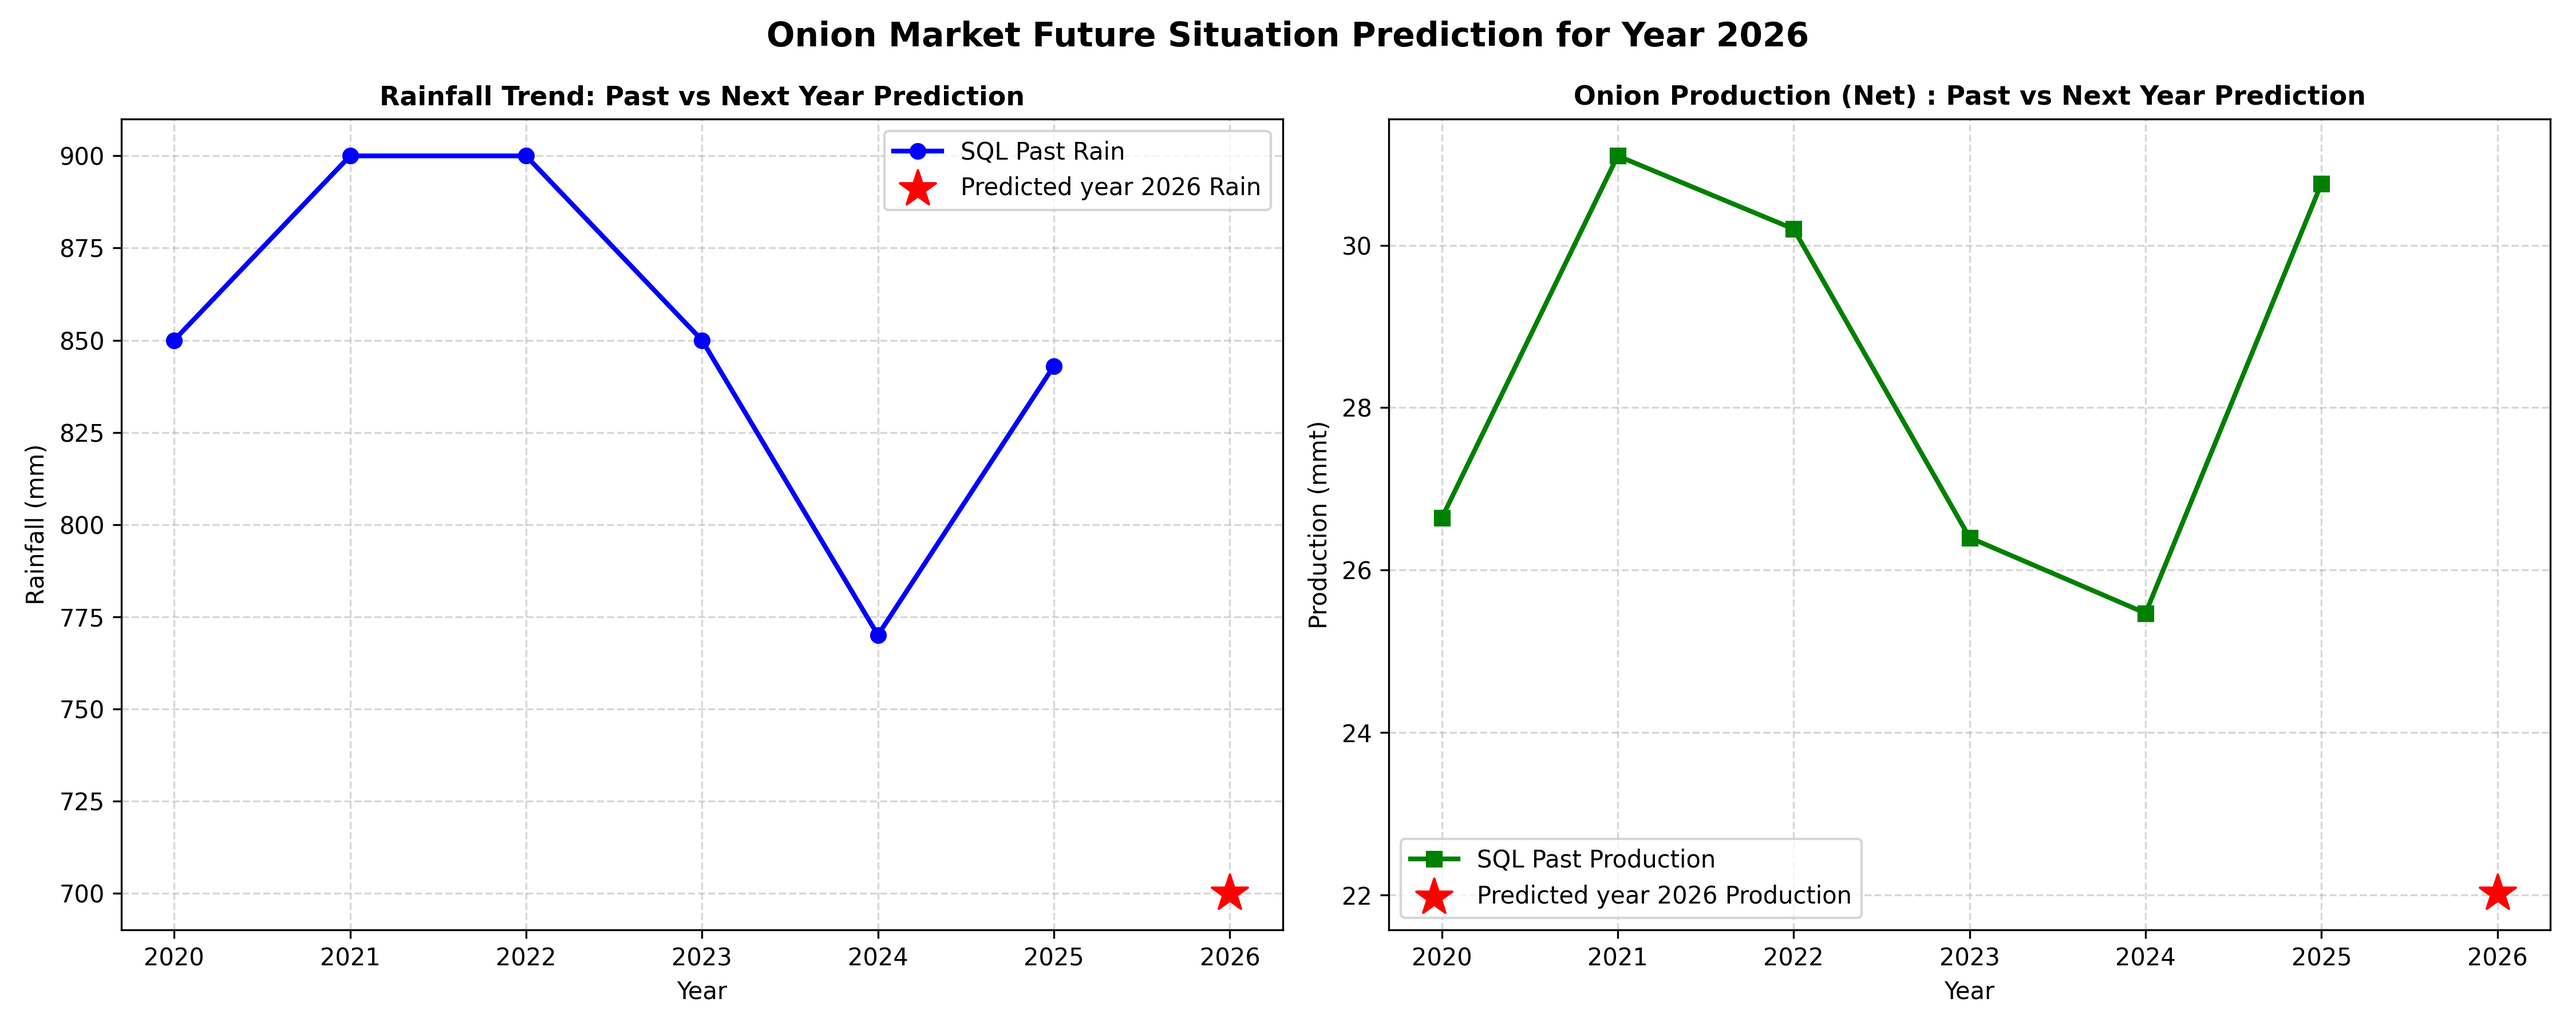
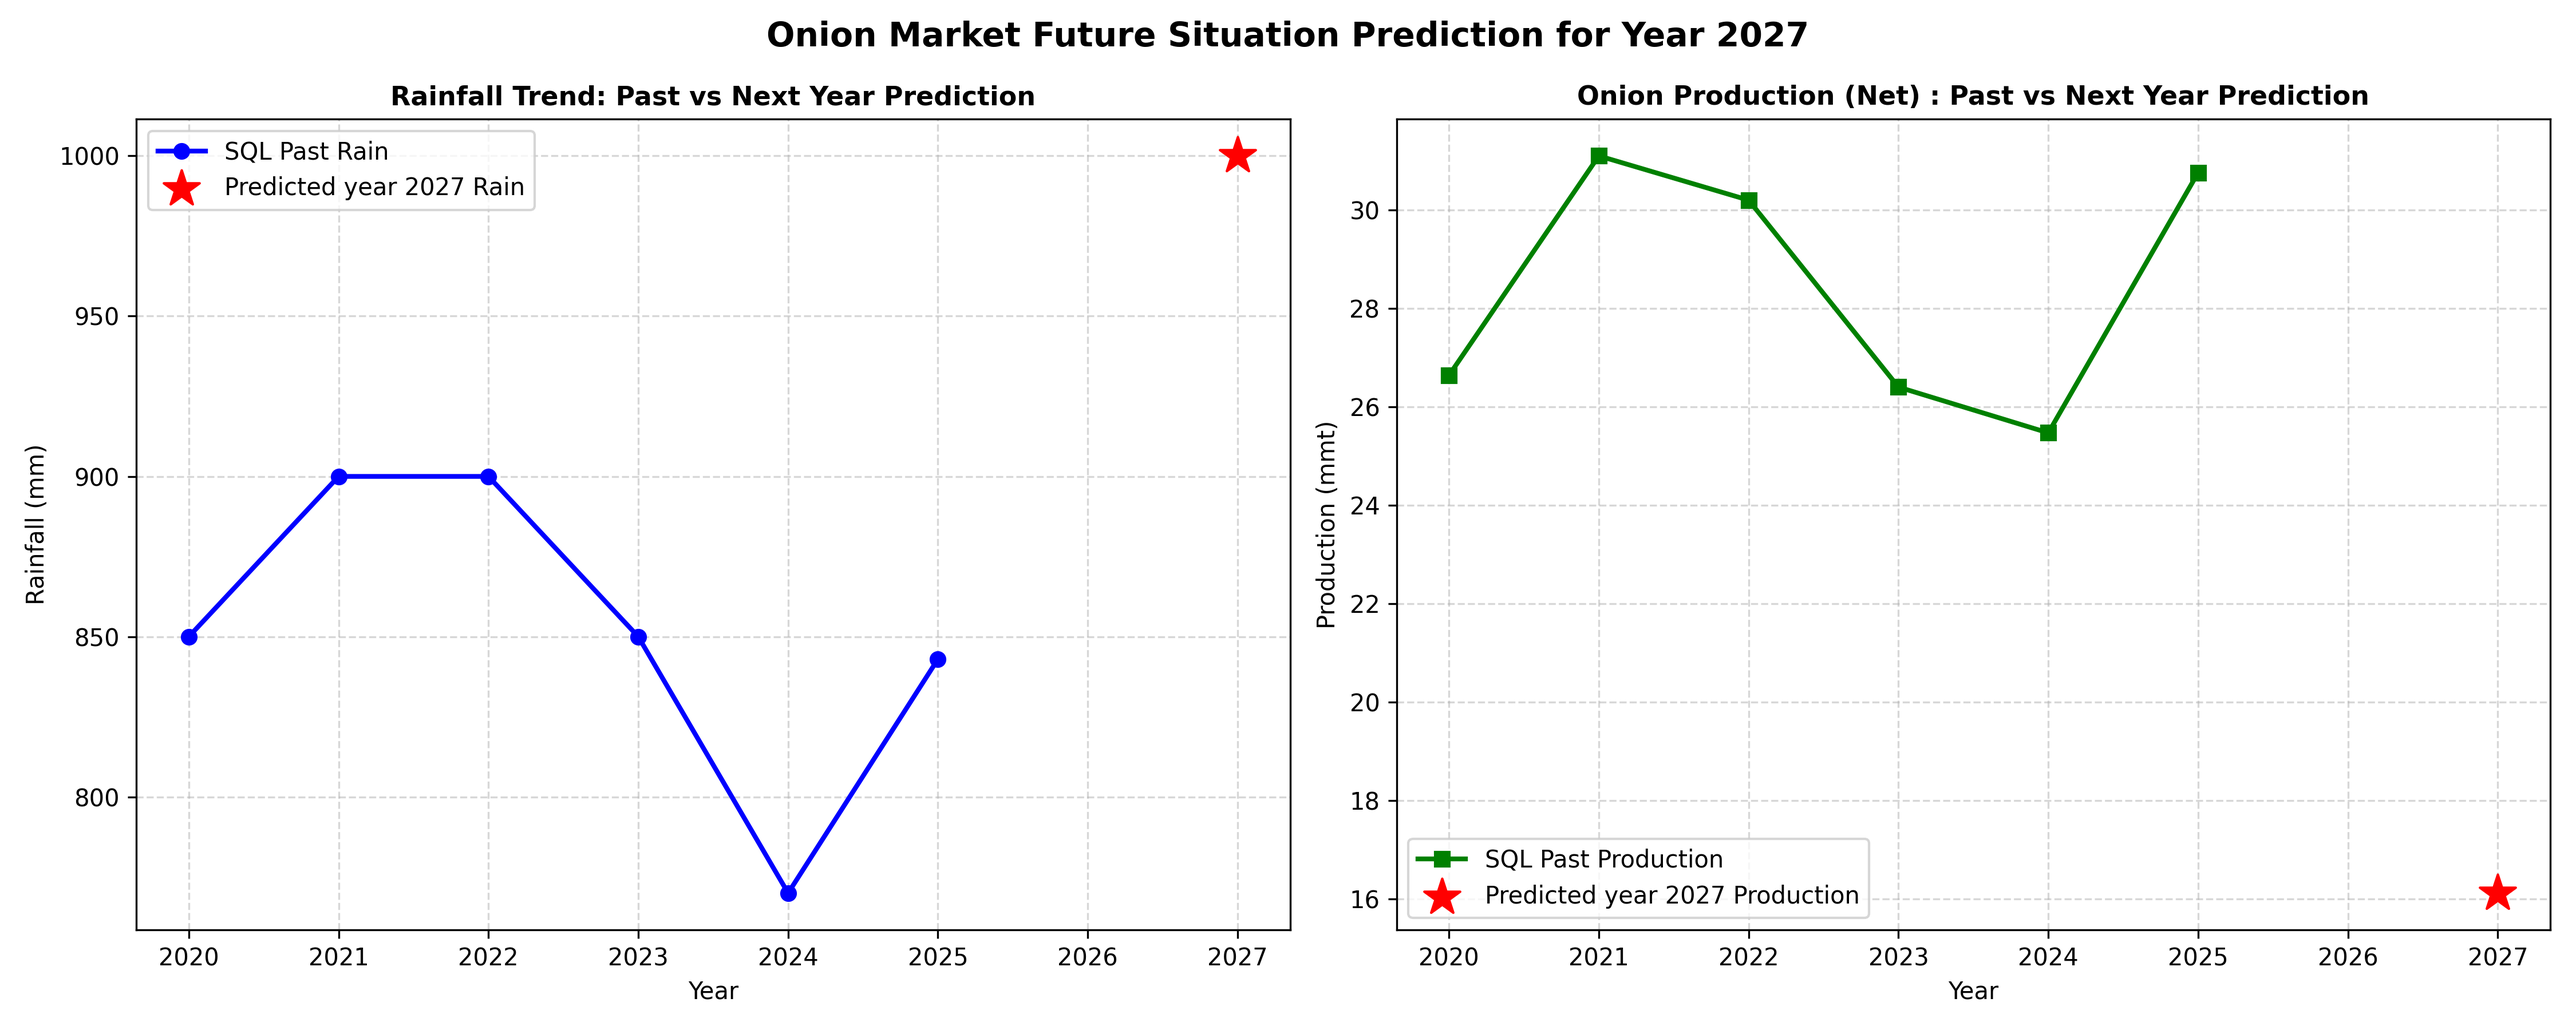
Added onion_market_analysis project

diff --git a/main.py b/main.py
@@ -1,19 +1,21 @@
 import os
+from dotenv import load_dotenv
 import pymysql
+load_dotenv()
 import pandas as pd
 import numpy as np
 import matplotlib.pyplot as plt
 import seaborn as sns
-import pyttsx3           #voice
+import pyttsx3           #voice alert engine
 
 print("[SYSTEM] Onion Market Prediction Project Starting...")
 
-conn = pymysql.connect(
+conn = pymysql.connect( # connect the python project to the onion market MYSQL database
     host="127.0.0.1",
     user="root",
-    password="rutujasumit",
-    database="onionmarket"
-)
+    password=os.getenv("DB_PASSWORD"),
+    database="onionmarket"  # year,cultivated area,production million metric T, rainfall,export
+    )                         # required, wastage stock, buffer tock
 cursor = conn.cursor()
 print("[SUCCESS] Connected to database  successfully!")
 def load_data():
@@ -22,10 +24,10 @@ def load_data():
 df = load_data()
 print(df)
 print()
-print(df.describe())
+print(df.describe()) # basic statistical information about data
 print()
 
-avg_rainfall_mm = np.mean([df["rainfall_mm"]])
+avg_rainfall_mm = np.mean([df["rainfall_mm"]]) # calculate avg rainfall using numpy
 print("rainfall_mm:", avg_rainfall_mm) 
 print()
 
@@ -53,7 +55,7 @@ def show_stable_market_analysis_with_demand(dataframe):
         label="Yearly Market Data"
     )  
 # year labels
-    for i, txt in enumerate(dataframe["year"]):
+    for i, txt in enumerate(dataframe["year"]): #show yearly market data for each row
         plt.annotate(txt, (dataframe["rainfall_mm"].iloc[i], dataframe["production_mmt"].iloc[i]),
                      textcoords="offset points", xytext=(0,10), ha='center', fontsize=9, fontweight='bold')
 # stable market zone 800 to 900 mm
@@ -61,8 +63,8 @@ def show_stable_market_analysis_with_demand(dataframe):
 # graph labels
     plt.title("Stable Market Equilibrium: Weather, Production & Demand Analysis", fontsize=13, fontweight="bold", pad=15)
     plt.xlabel("Rainfall (mm) -> [Weather Condition]", fontsize=11)
-    plt.ylabel("Onion Production (MMT) -> [Market Supply]", fontsize=11)
-
+    plt.ylabel("Onion Production (MMT) -> [Market Supply]", fontsize=11)# represent onion production as available market supply
+# uses dot size to represent the cultivated area in hectors
     plt.text(775, 24.5, " Dot Size = cultivated Area (Hector)", fontsize=9, color="darkblue", style="italic")
 # Demand Color Bar
     cbar = plt.colorbar(scatter)
@@ -86,9 +88,9 @@ class OnionMarket:
 
         self.df = historical_dataframe
         self.total_years = len(historical_dataframe)
-# Historical Rain Average calculation
+# calculate the avg historical rainfall
         self.avg_rain_historical = historical_dataframe["rainfall_mm"].mean()
-# Average per Hectoe calculation
+# Average onio production Hectoe calculation
         avg_production = historical_dataframe["production_mmt"].mean()
         avg_area = historical_dataframe["cultivated_area_hector"].mean()
         self.base_yield = avg_production / avg_area if avg_area > 0 else 16.5
@@ -221,7 +223,7 @@ except ValueError:
     next_yr = 2026
     next_yr_rain = 840.0
     next_yr_area = 1.9
-# Prediction
+# Analysis
 predicted_prod = Market.predict_next_year_with_advisory(next_yr, next_yr_rain, next_yr_area)
 # Graph
 print("--- Generating Future Trend Prediction Graph ---")
@@ -261,7 +263,5 @@ plt.close()
 
 conn.close()
 print("[SUCCESS] Project Executed Successfully!")
-
-
 
 
